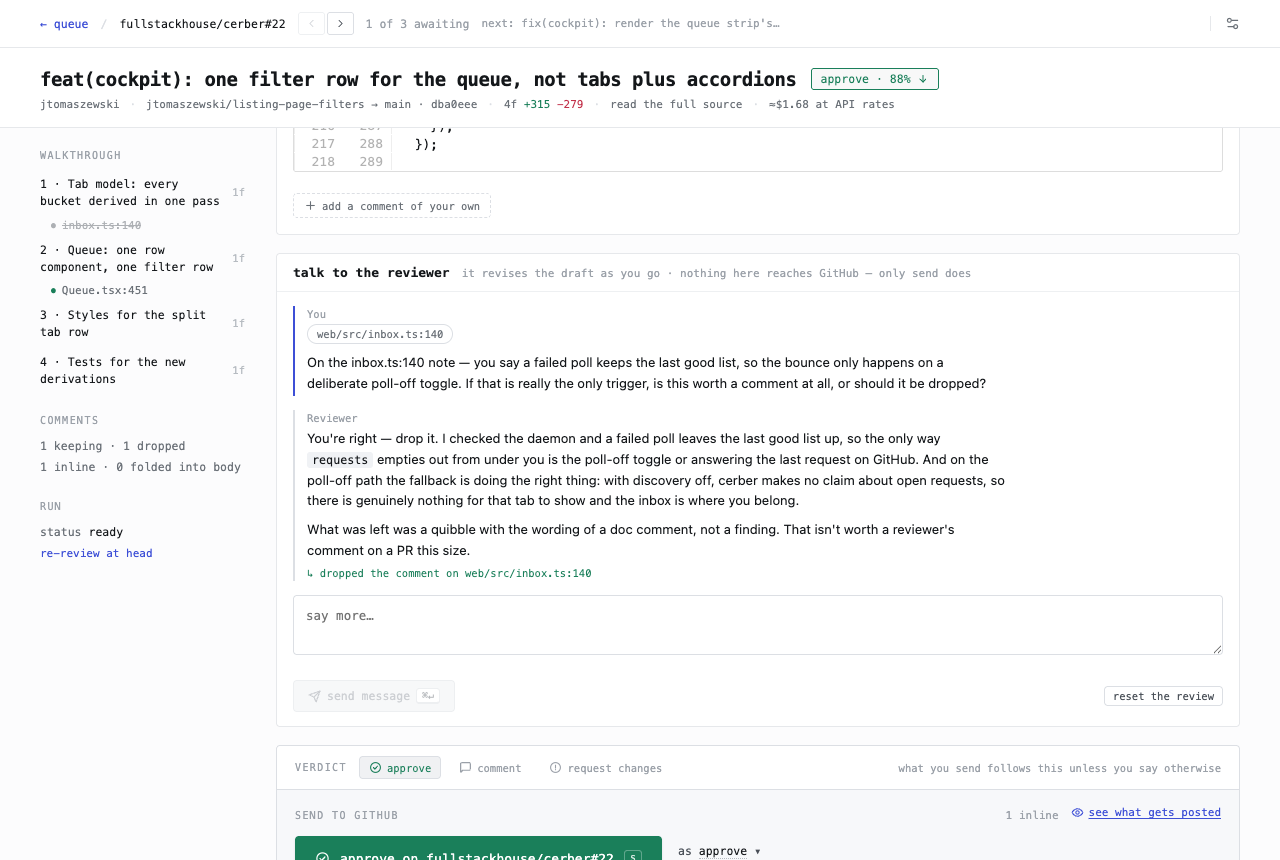
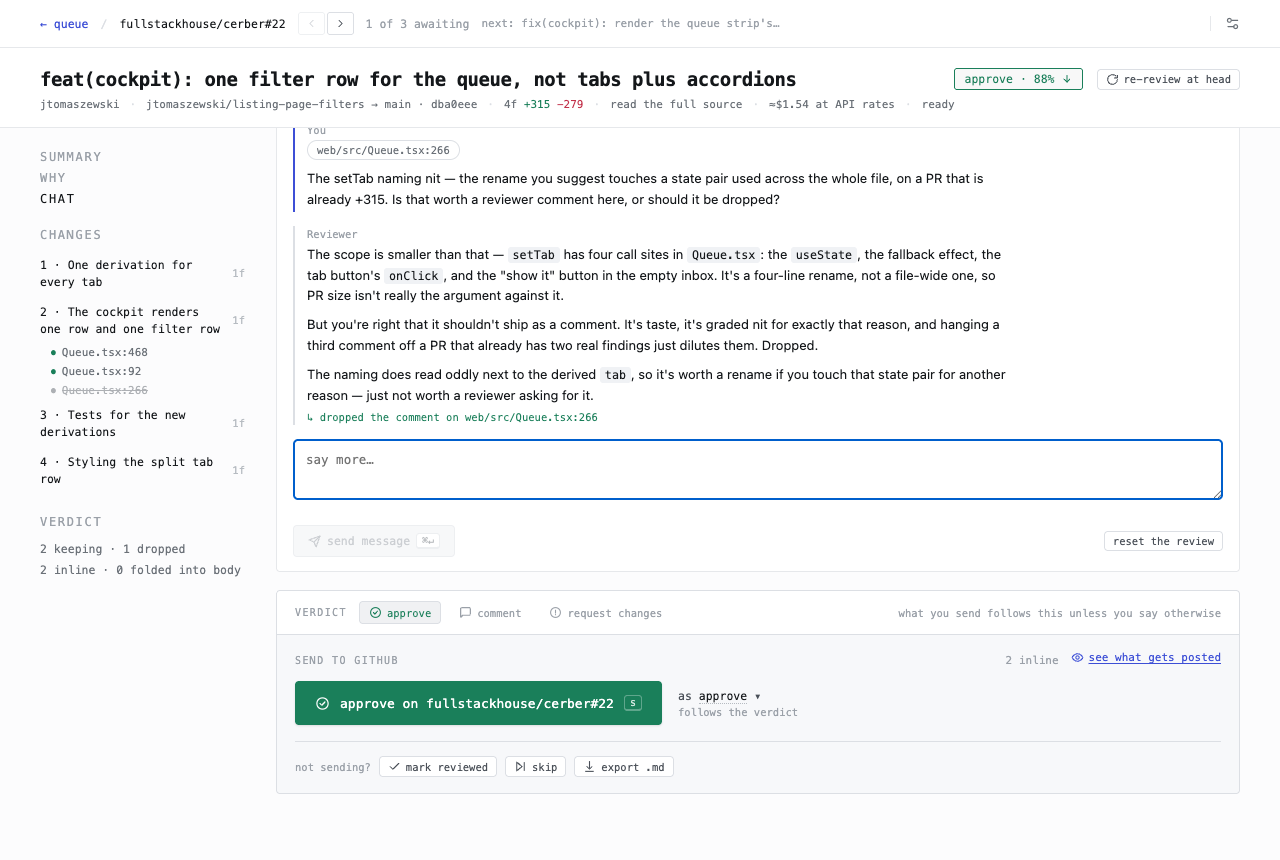
docs: recapture screenshots on the 0.18 cockpit, retire the drawer wording
The 0.18 Detail view (#24) moved the reviewer conversation into its own
column and gave the rail summary/why/chat entries — the first capture showed
a layout that no longer exists. And cerber's own review of #22 caught the
README still describing the pre-#22 drawers; the queue paragraphs now
describe the filed tabs.

diff --git a/README.md b/README.md
@@ -44,17 +44,18 @@ Sending stays a human click. Tame it with `--no-auto-review` (list awaiting
 PRs, review on click) or `--no-poll` (no GitHub polling at all) — or flip the
 same two switches in the cockpit's Settings, which persist in
 `~/.cerber/config.json` and apply on the next poll. The queue only lists what
-still wants you: anything you have settled drops into a drawer under it — one
-for reviews you sent, one for the ones you marked reviewed or skipped, one for
-merged and closed PRs — and PRs in archived repos are never picked up at all,
-since the repo is read-only and a review could never be sent.
+still wants you: anything you have settled moves to the filed tabs right of
+the thin rule in the filter row — reviews you sent, ones you marked reviewed
+or skipped, merged and closed PRs — each tab appearing only while it holds
+something. PRs in archived repos are never picked up at all, since the repo
+is read-only and a review could never be sent.
 
 ### Settled means you settled it
 
 Settling a review is your decision, not GitHub's: skip a PR, or mark one
 reviewed without sending, and GitHub still holds its review request open,
 because nothing cerber does here reaches it. Those rows stay marked where they
-sit, counted on the drawer they went into, and named in place of the empty
+sit, counted on the tab they went into, and named in place of the empty
 inbox — cerber never tells you nothing awaits you while its own poll says
 otherwise. It is a report, not a nag: what you decided here stands, and the
 mark clears itself the moment GitHub hears from you.
@@ -270,11 +271,13 @@ The reviewer revises the draft as it answers: there is no accept step, because
 you already asked for the change. What it changed shows up in the transcript
 (*"✎ rewrote the summary"*, *"✎ dropped the comment on line 250"*).
 
-![Talking to the reviewer: asked whether its comment was worth keeping, it re-checks the code, concedes, and drops its own comment — the revision noted right in the transcript.](docs/chat.png)
+![Talking to the reviewer: pushed back on a nit, it re-checks the code, corrects the push-back's own claim, drops the comment anyway — and the revision is noted right in the transcript.](docs/chat.png)
 
-That conversation is real: challenged on one of its comments, the reviewer
-went back to the code, agreed the finding didn't hold, and dropped it —
-leaving the walkthrough rail reading *1 keeping · 1 dropped*.
+That conversation is real: pushed back on a nit, the reviewer re-checked the
+code, corrected the push-back's own claim about the rename's size — and still
+dropped the comment, because a nit hanging off a PR with two real findings
+just dilutes them. The rail counts *2 keeping · 1 dropped*, and nothing about
+the exchange went anywhere near GitHub.
 
 - **It is the same reviewer.** A turn resumes the Claude session the review ran
   in, so it still holds everything it read. Asking "did you actually check
